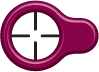
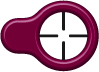
horizontally flip pH probe, connect wire to left side (control points for wire are wrong)

diff --git a/js/basics/view/BasicsPHMeterNode.js b/js/basics/view/BasicsPHMeterNode.js
@@ -132,7 +132,7 @@ define( function( require ) {
 
       // Connect bottom-center of body to right-center of probe.
       var bodyConnectionPoint = new Vector2( scaleCenterX, bodyNode.bottom - 10 );
-      var probeConnectionPoint = new Vector2( probeNode.right, probeNode.centerY );
+      var probeConnectionPoint = new Vector2( probeNode.left, probeNode.centerY );
 
       // control points
       // The y coordinate of the body's control point varies with the x distance between the body and probe.
